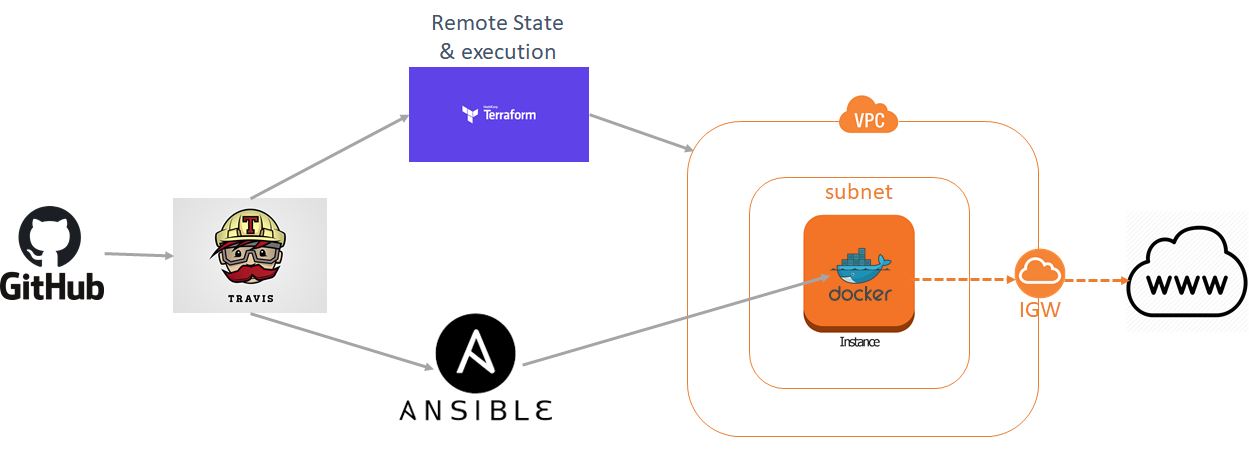
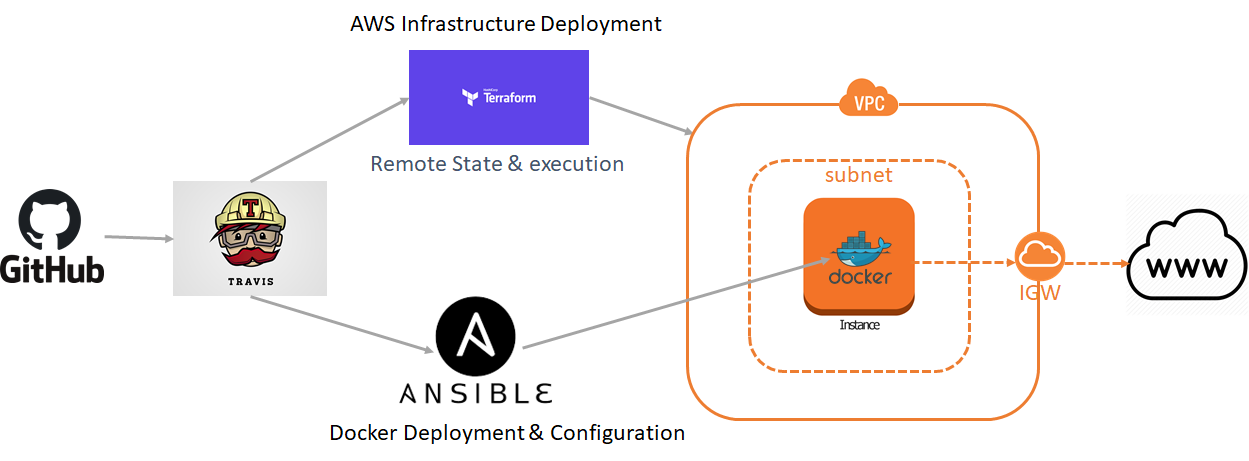
t1

diff --git a/Readme.rst b/Readme.rst
@@ -4,13 +4,21 @@ KNAB DEMO DEPLOYMENT
 
 Tools
 *****
-- AWS
-- Docker
-- Ansible
-- Git (Gitlab)
-- Travis CI
+- AWS (Cloud)
+- Docker (Container)
+- Ansible (Configuration Management)
+- Git (GitHub)
+- Travis CI (Build & Deployments)
 
 
 Deployment Architecture
 *************************
 .. image:: images/architecture.PNG
+
+
+Scope to Improve
+*****************
+ 
+- Adding Load Balancer as FrontEnd (To improve Security, HA and Performance)
+- Passsing SSH Key securely (Travis Community edition does not support)
+- Adding AWS Network Firewall (More granular security)
